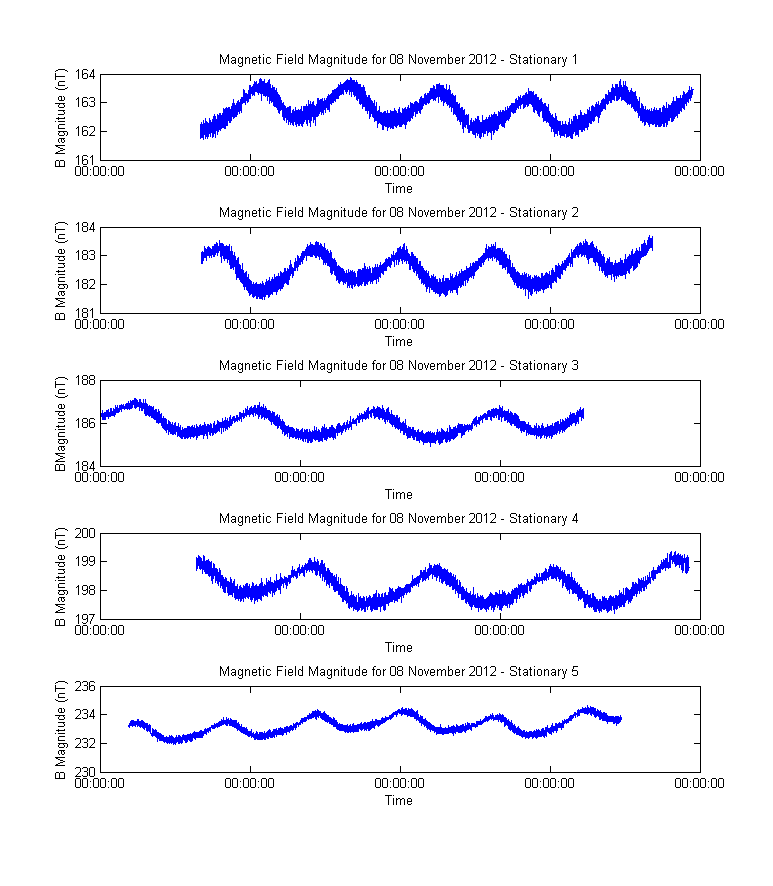
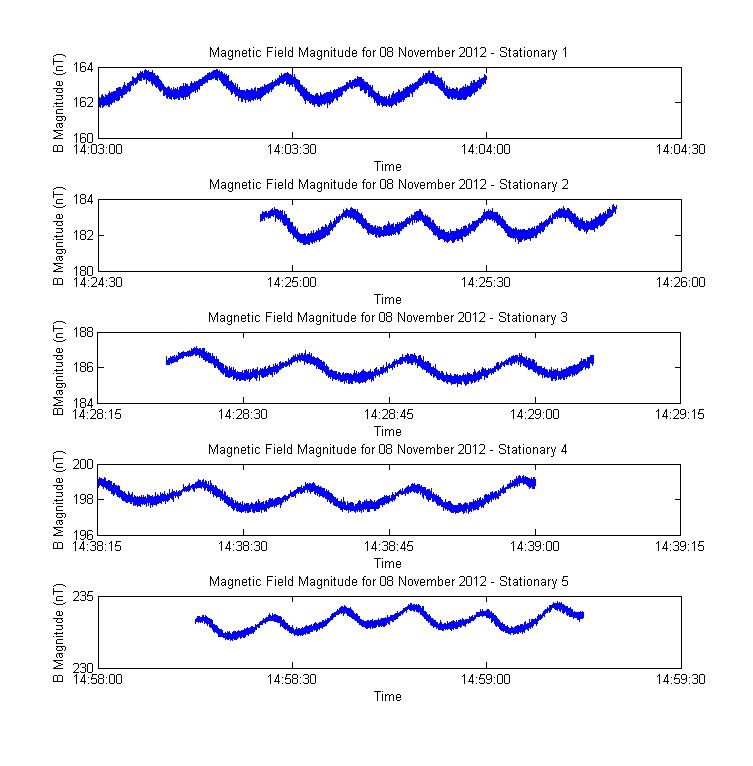
datetick

diff --git a/Project_pt3.m b/Project_pt3.m
@@ -53,7 +53,7 @@ Bi_5 = Bi(223681:227521);
 % stat1
 figure(1);
 subplot(5,1,1);
-plot(ti_1,Bi_1);
+plot(ti_1/(1000000*3600*24),Bi_1);
 datetick('x','HH:MM:SS');
 xlabel('Time');
 ylabel('B Magnitude (nT)');
@@ -61,7 +61,7 @@ title('Magnetic Field Magnitude for 08 November 2012 - Stationary 1');
 
 % stat2
 subplot(5,1,2);
-plot(ti_2,Bi_2);
+plot(ti_2/(1000000*3600*24),Bi_2);
 datetick('x','HH:MM:SS');
 xlabel('Time');
 ylabel('B Magnitude (nT)');
@@ -69,7 +69,7 @@ title('Magnetic Field Magnitude for 08 November 2012 - Stationary 2');
 
 % stat3
 subplot(5,1,3);
-plot(ti_3,Bi_3);
+plot(ti_3/(1000000*3600*24),Bi_3);
 datetick('x','HH:MM:SS');
 xlabel('Time');
 ylabel('BMagnitude (nT)');
@@ -77,7 +77,7 @@ title('Magnetic Field Magnitude for 08 November 2012 - Stationary 3');
 
 % stat4
 subplot(5,1,4);
-plot(ti_4,Bi_4);
+plot(ti_4/(1000000*3600*24),Bi_4);
 datetick('x','HH:MM:SS');
 xlabel('Time');
 ylabel('B Magnitude (nT)');
@@ -85,7 +85,7 @@ title('Magnetic Field Magnitude for 08 November 2012 - Stationary 4');
 
 % stat5
 subplot(5,1,5);
-plot(ti_5,Bi_5);
+plot(ti_5/(1000000*3600*24),Bi_5);
 datetick('x','HH:MM:SS');
 xlabel('Time');
 ylabel('B Magnitude (nT)');
